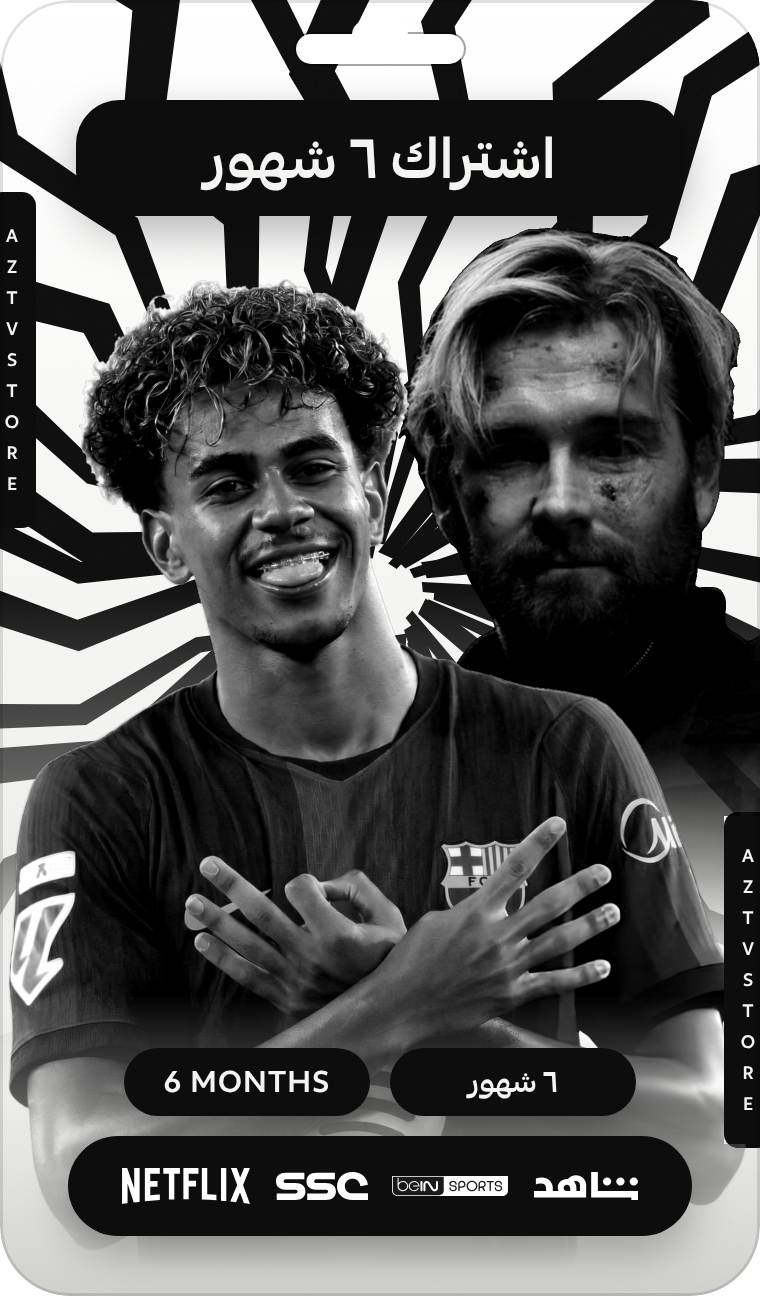
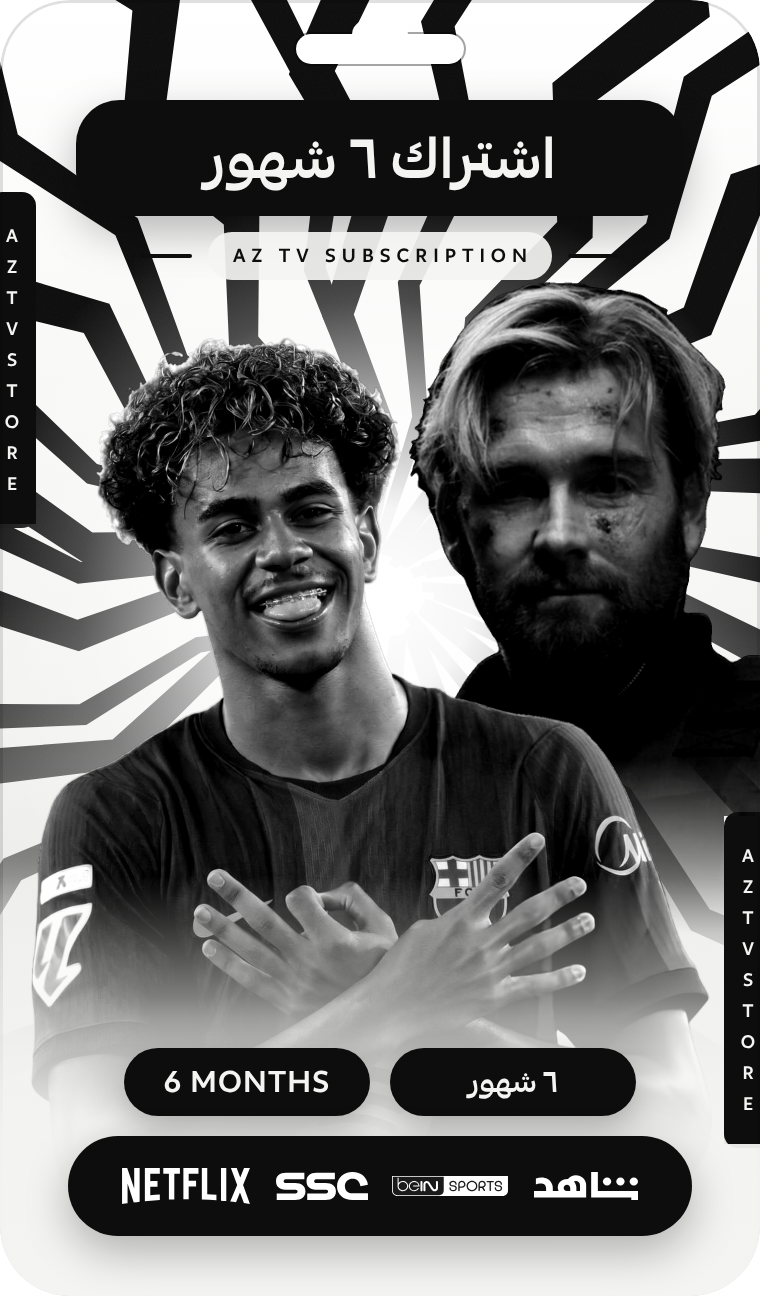
Trial cards round 2: smaller portraits, line under title, centre light, light floor
Claude-Session: https://claude.ai/code/session_01D8XCbG6TVkErSujRZYkAkh

diff --git a/05-design/shared/subscription-cards/card.html b/05-design/shared/subscription-cards/card.html
@@ -19,6 +19,16 @@
 
   /* portraits: full card width, from under the title to the bottom; the side tabs are redrawn on top */
   .photos { position: absolute; inset: 0; overflow: hidden; }
+  /* light at the burst centre, behind the faces, so the centre of the burst reads as a glow and not as a knot */
+  .glow { position: absolute; inset: 0; pointer-events: none;
+    background: radial-gradient(circle at 190px 300px, rgba(255,255,255,1) 0, rgba(255,255,255,.96) 46px, rgba(255,255,255,.7) 92px, rgba(255,255,255,.25) 150px, rgba(255,255,255,0) 210px); }
+  /* light floor under the duration and logo pills, so they sit on a calm base and the photos fade into it */
+  .floor { position: absolute; inset: auto 0 0; height: 210px; z-index: 8; pointer-events: none;
+    background: linear-gradient(to top, rgba(244,244,242,1) 0, rgba(244,244,242,.94) 80px, rgba(244,244,242,.6) 140px, rgba(244,244,242,0) 210px); }
+  .sub { position: absolute; left: 0; right: 0; top: 116px; z-index: 10; display: flex; align-items: center; justify-content: center; gap: 8px;
+    direction: ltr; font-size: 9.5px; font-weight: 700; letter-spacing: .32em; color: var(--ink); }
+  .sub::before, .sub::after { content: ""; width: 26px; height: 2px; border-radius: 2px; background: var(--ink); }
+  .sub span { padding: 3px 9px 3px 12px; border-radius: 99px; background: rgba(244,244,242,.92); }
   .card > img.tabs { z-index: 9; clip-path: path("M0 97 H18 V262 H0 Z M362 408 H380 V572 H362 Z"); }
   .photos img { position: absolute; height: auto; filter: grayscale(1) contrast(1.15) brightness(1.02);
     -webkit-mask-image: linear-gradient(to bottom, #000 72%, transparent 97%); mask-image: linear-gradient(to bottom, #000 72%, transparent 97%); }
@@ -40,9 +50,12 @@
 <body>
 <div class="card" id="card">
   <img class="bg" id="bg" alt="">
+  <div class="glow"></div>
   <div class="photos" id="photos"></div>
+  <div class="floor"></div>
   <img class="bg tabs" id="tabs" alt="">
   <div class="title" id="title"></div>
+  <div class="sub"><span id="sub"></span></div>
   <div class="duration"><span class="ar" id="d-ar"></span><span class="en" id="d-en"></span></div>
   <div class="logos" id="logos"></div>
 </div>
@@ -54,8 +67,8 @@ const CARDS = {
   "aztv-3m": {
     bg: "bg/card-bg-aztv.png", title: "اشتراك ٣ شهور", dEn: "3 MONTHS", dAr: "٣ شهور",
     photos: [
-      { src: "photos/transparent/009-man-straw-hat-pinstripe-suit.png", left: 24, top: -15, width: 510 },
-      { src: "photos/transparent/005-man-city-sky-blue-kit.png", left: -139, top: 124, width: 524 }
+      { src: "photos/transparent/009-man-straw-hat-pinstripe-suit.png", left: 52, top: 26, width: 452 },
+      { src: "photos/transparent/005-man-city-sky-blue-kit.png", left: -112, top: 150, width: 470 }
     ]
   },
   // AZ TV (regular), 6 months. Trial: the portraits are stand-ins until photos are matched to the name list.
@@ -63,14 +76,15 @@ const CARDS = {
     bg: "bg/card-bg-aztv.png", title: "اشتراك ٦ شهور", dEn: "6 MONTHS", dAr: "٦ شهور",
     // first = behind, last = in front
     photos: [
-      { src: "stars/latest-roles/vertical/transparent/06-antony-starr-g20.png", left: 150, top: 104, width: 300, lift: 1.22 },
-      { src: "photos/transparent/010-barcelona-curly-hair-crossed-fingers.png", left: -32, top: 104, width: 410 }
+      { src: "stars/latest-roles/vertical/transparent/06-antony-starr-g20.png", left: 160, top: 132, width: 276, lift: 1.22 },
+      { src: "photos/transparent/010-barcelona-curly-hair-crossed-fingers.png", left: -18, top: 136, width: 378 }
     ]
   }
 };
 const c = CARDS[new URLSearchParams(location.search).get("card") || "aztv-6m"];
 document.getElementById("bg").src = document.getElementById("tabs").src = c.bg;
 document.getElementById("title").textContent = c.title;
+document.getElementById("sub").textContent = c.sub || "AZ TV SUBSCRIPTION";
 document.getElementById("d-en").textContent = c.dEn;
 document.getElementById("d-ar").textContent = c.dAr;
 const photos = document.getElementById("photos");

diff --git a/05-design/shared/subscription-cards/README.md b/05-design/shared/subscription-cards/README.md
@@ -43,6 +43,8 @@ Built from `card.html` (`?card=aztv-6m`; each card is one entry in `CARDS`) and 
 
 `new/aztv-3m.png` (card 3, اشتراك ٣ شهور) is a second trial in the same layout with photo 009 as the star (behind, right) and player photo 005 in front: `node render-cards.cjs aztv-3m`.
 
+Round 2 on both trials: portraits about 10% smaller, a small «AZ TV SUBSCRIPTION» line under the title, a soft white light at the burst centre (hides the knot of rays between the faces) and a light floor under the duration and logo pills.
+
 ## How we work
 
 1. **Old:** `old/` holds each card as it is on the store today, cut out of its post and enlarged 4x (`cut-old-cards.py`). `old/all-cards.png` shows all ten.
